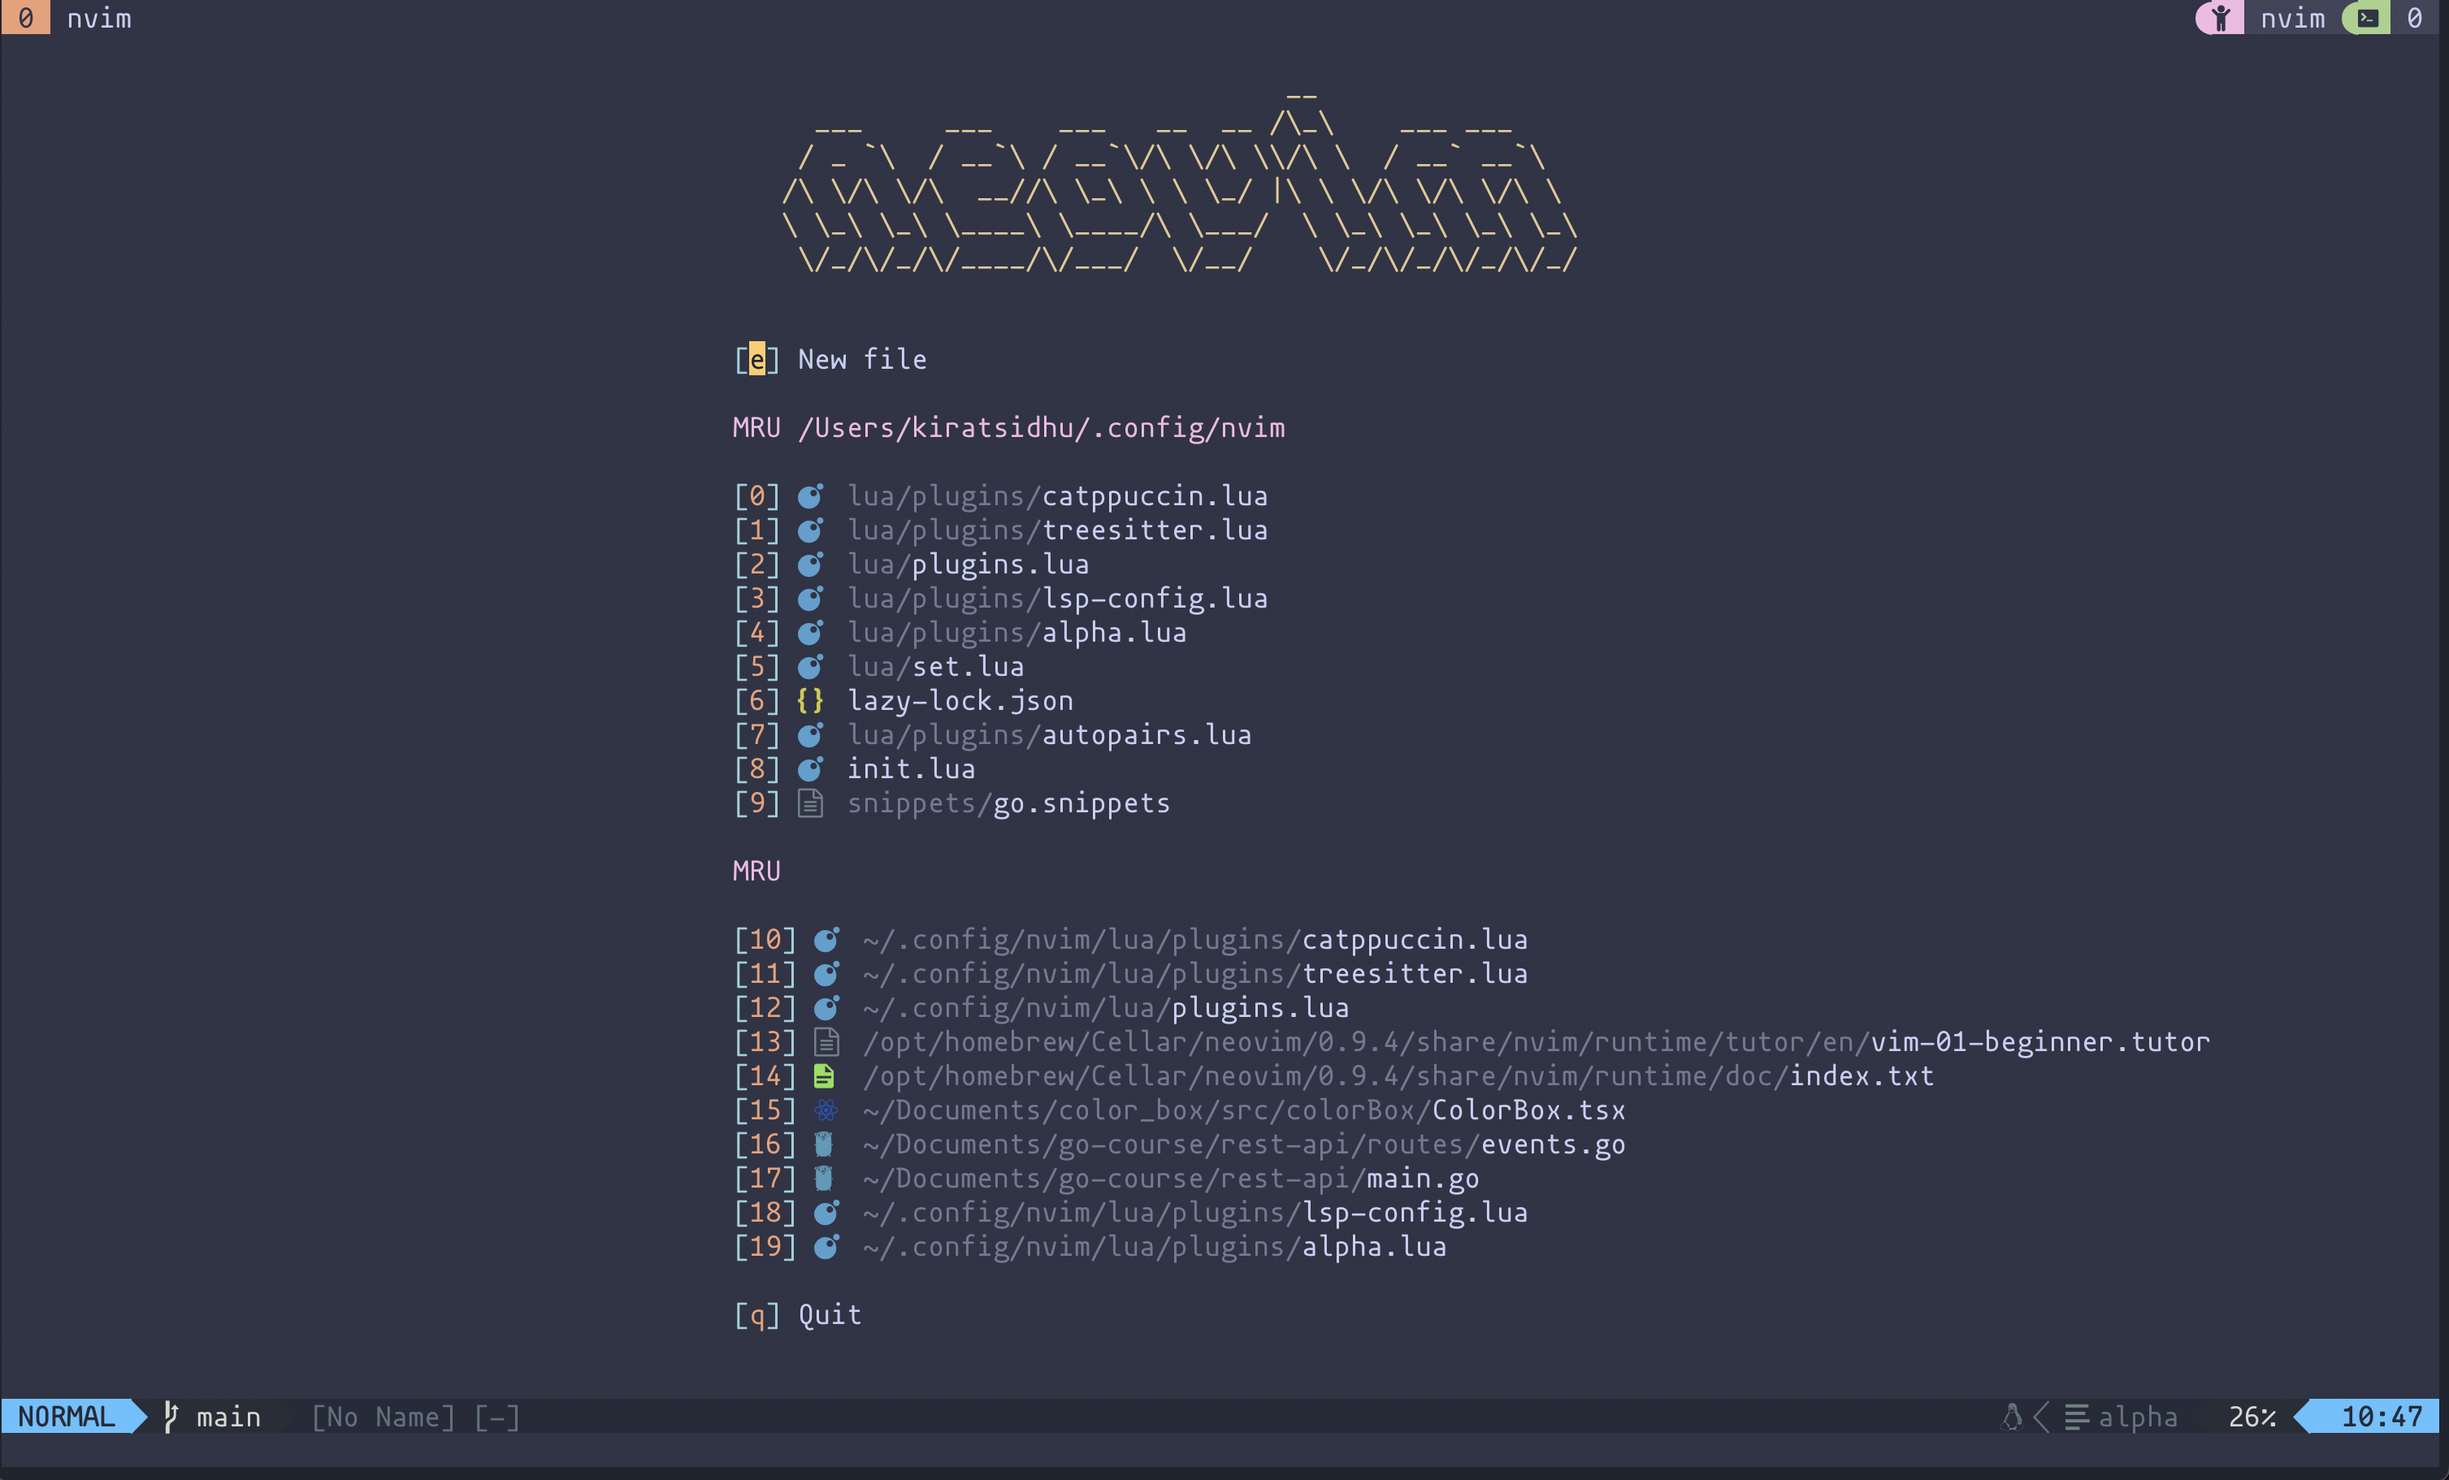
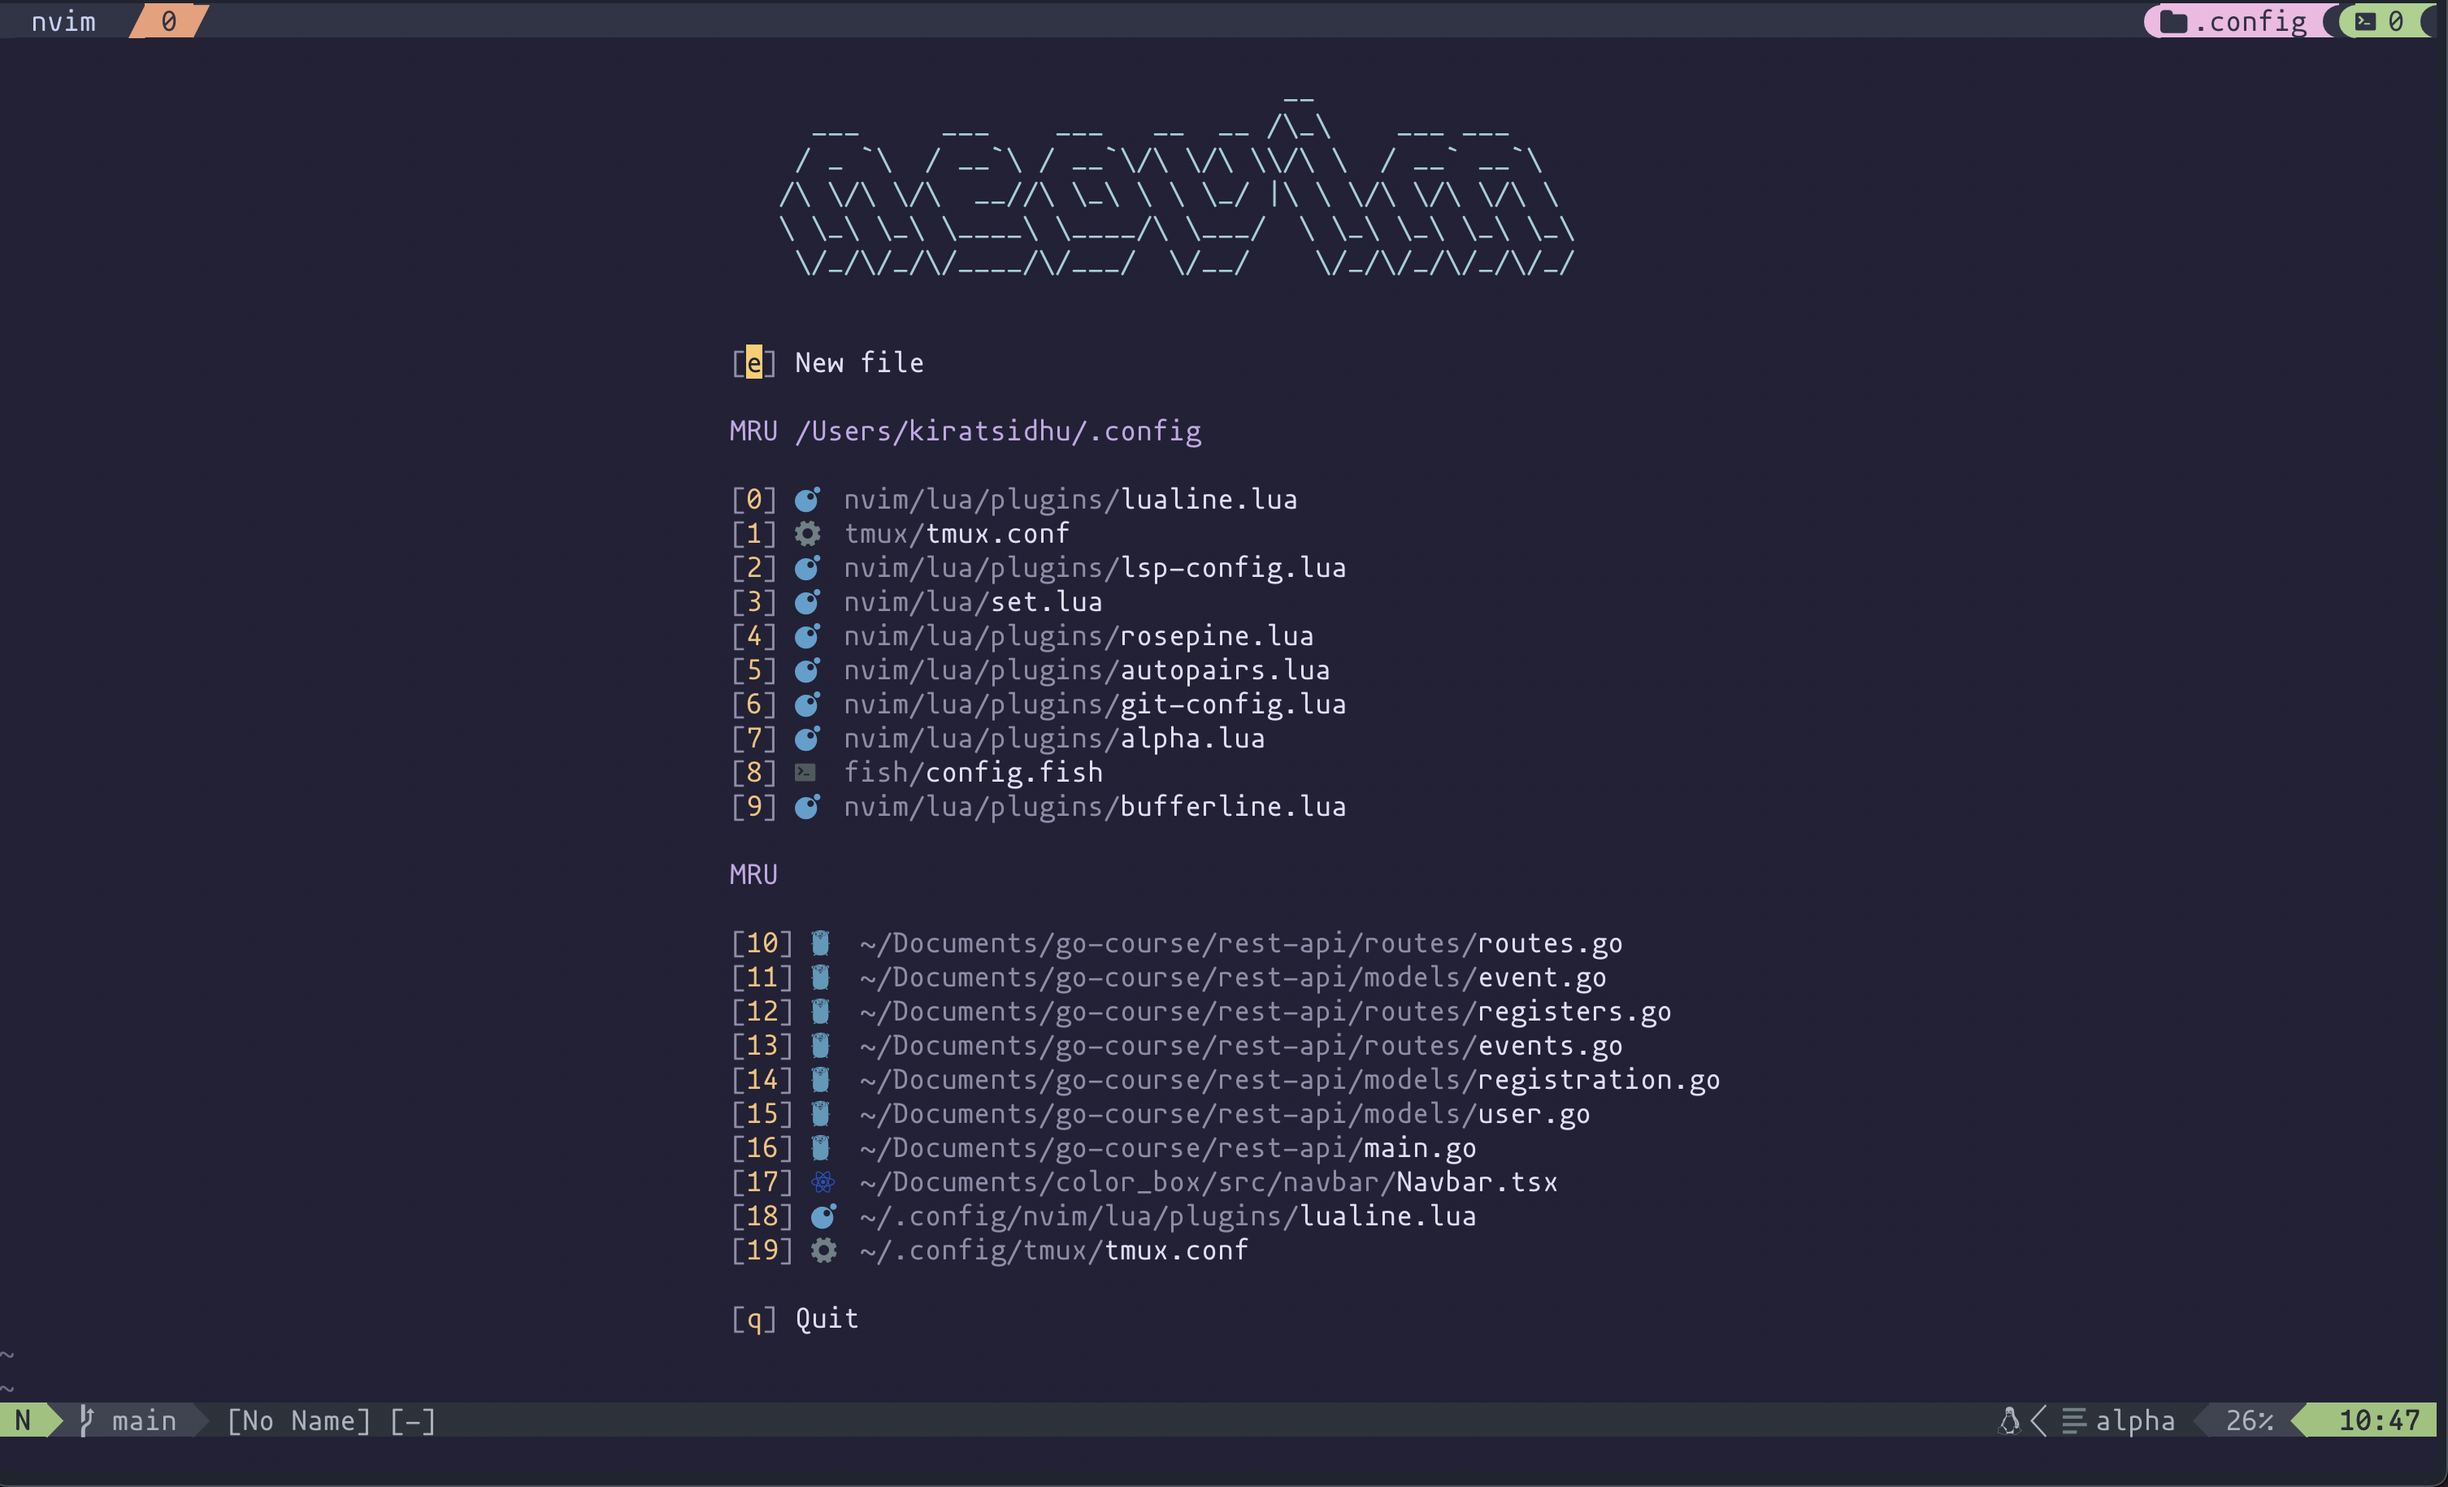
Update READMEs
- Updated images and formatting

diff --git a/nvim/README.md b/nvim/README.md
@@ -1,28 +1,32 @@
 # vim-setup
+
 Been learning vim and this is an updated setup I enjoy using.
-I primarily work in typescript, react, golang. Been playing around with rust too. 
+I primarily work in typescript, react, golang. Been playing around with rust too.
 
 ![nvim screenshot](../images/editor-start-menu.png)
 
 ![editor screenshot](../images/editor-tabs.png)
 
 ## Plugins:
-* [folke/lazy.nvim](https://github.com/folke/lazy.nvim) - A plugin manager for Neovim
-* [catppuccin/nvim](https://github.com/catppuccin/nvim) - A colorscheme I like with support for lsp, treesitter and a variety of plugins
-* [nvim-lualine/lualine.nvim](https://github.com/nvim-lualine/lualine.nvim) - A blazing fast and easy to configure Neovim statusline written in Lua
-* [nvim-treesitter/nvim-treesitter](https://github.com/nvim-treesitter/nvim-treesitter) - Treesitter configurations and abstraction layer for Neovim
-* [kyazdani42/nvim-web-devicons](https://github.com/nvim-tree/nvim-web-devicons) - Lua fork of vim-web-devicons for neovim
-* [nvim-telescope/telescope.nvim](https://github.com/nvim-telescope/telescope.nvim) - A highly extendable fuzzy finder over lists
-* [windwp/nvim-autopairs](https://github.com/windwp/nvim-autopairs) - Autopairs
-* [windwp/nvim-ts-autotag](https://github.com/windwp/nvim-ts-autotag) - Use treesitter to auto close and auto rename html tag
-* [akinsho/nvim-bufferline.lua](https://github.com/akinsho/bufferline.nvim) - A snazzy bufferline
-* [lewis6991/gitsigns.nvim](https://github.com/lewis6991/gitsigns.nvim) - Git integration for buffers
-* [L3MON4D3/LuaSnip](https://github.com/L3MON4D3/LuaSnip) - Snip engine
-* [hrsh7th/nvim-cmp](https://github.com/hrsh7th/nvim-cmp) - A completion engine plugin for neovim written in Lua.
 
+- [folke/lazy.nvim](https://github.com/folke/lazy.nvim) - A plugin manager for Neovim
+- [rose-pine/nvim](https://github.com/rose-pine/neovim) - A colorscheme I like with support for lsp, treesitter and a variety of plugins
+- [nvim-lualine/lualine.nvim](https://github.com/nvim-lualine/lualine.nvim) - A blazing fast and easy to configure Neovim statusline written in Lua
+- [nvim-treesitter/nvim-treesitter](https://github.com/nvim-treesitter/nvim-treesitter) - Treesitter configurations and abstraction layer for Neovim
+- [kyazdani42/nvim-web-devicons](https://github.com/nvim-tree/nvim-web-devicons) - Lua fork of vim-web-devicons for neovim
+- [nvim-telescope/telescope.nvim](https://github.com/nvim-telescope/telescope.nvim) - A highly extendable fuzzy finder over lists
+- [windwp/nvim-autopairs](https://github.com/windwp/nvim-autopairs) - Autopairs
+- [windwp/nvim-ts-autotag](https://github.com/windwp/nvim-ts-autotag) - Use treesitter to auto close and auto rename html tag
+- [akinsho/nvim-bufferline.lua](https://github.com/akinsho/bufferline.nvim) - A snazzy bufferline
+- [lewis6991/gitsigns.nvim](https://github.com/lewis6991/gitsigns.nvim) - Git integration for buffers
+- [tpope/vim-fugitive](https://github.com/tpope/vim-fugitive) - A Git wrapper for nvim
+- [L3MON4D3/LuaSnip](https://github.com/L3MON4D3/LuaSnip) - Snip engine
+- [hrsh7th/nvim-cmp](https://github.com/hrsh7th/nvim-cmp) - A completion engine plugin for neovim written in Lua.
+- [hrsh7th/cmp-cmdline](https://github.com/hrsh7th/cmp-cmdline) - A nvim-cmp source for command line completion
+- [goolord/alpha-nvim](https://github.com/goolord/alpha-nvim) - A lua powered greeter
 
 ## Shell Setup:
-* NeoVim
-* Nerd fonts - Powerline-patched fonts. I use Mononoki Nerd Font.
-* iTerm
 
+- NeoVim
+- Nerd fonts - Powerline-patched fonts. I use Mononoki Nerd Font.
+- iTerm

diff --git a/README.md b/README.md
@@ -1,2 +1,4 @@
 # dotfiles
 My config setup I use on all my machines
+
+![editor screenshot](../images/work-example.png)
